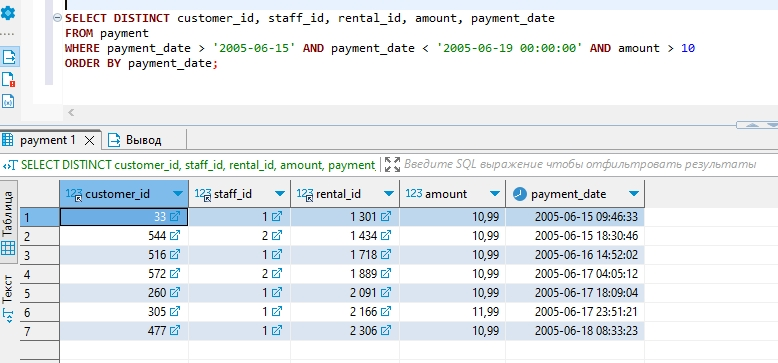
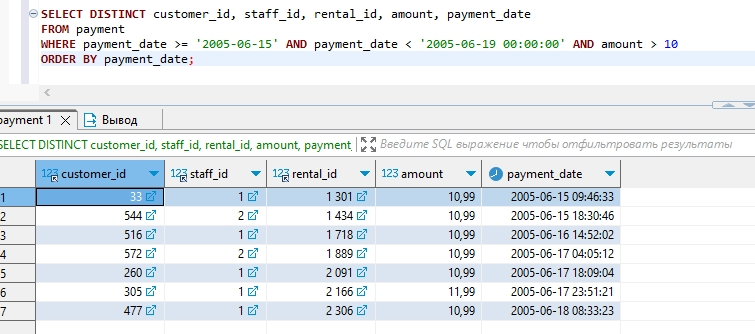
commit2

Changed region(s): [[0.0, 0.0, 1.0, 0.9581], [0.9139, 0.2994, 1.0, 0.3593], [0.0305, 0.988, 0.0914, 1.0]]

diff --git a/README.md b/README.md
@@ -23,8 +23,9 @@ WHERE district LIKE 'K%a' AND district NOT LIKE '% %';
 ```sql
 SELECT DISTINCT customer_id, staff_id, rental_id, amount, payment_date
 FROM payment
-WHERE payment_date > '2005-06-15' AND payment_date < '2005-06-19 00:00:00' AND amount > 10
+WHERE payment_date >= '2005-06-15' AND payment_date < '2005-06-19 00:00:00' AND amount > 10
 ORDER BY payment_date;
+
 ```
 
 ![Alt text](img/02.jpg)
